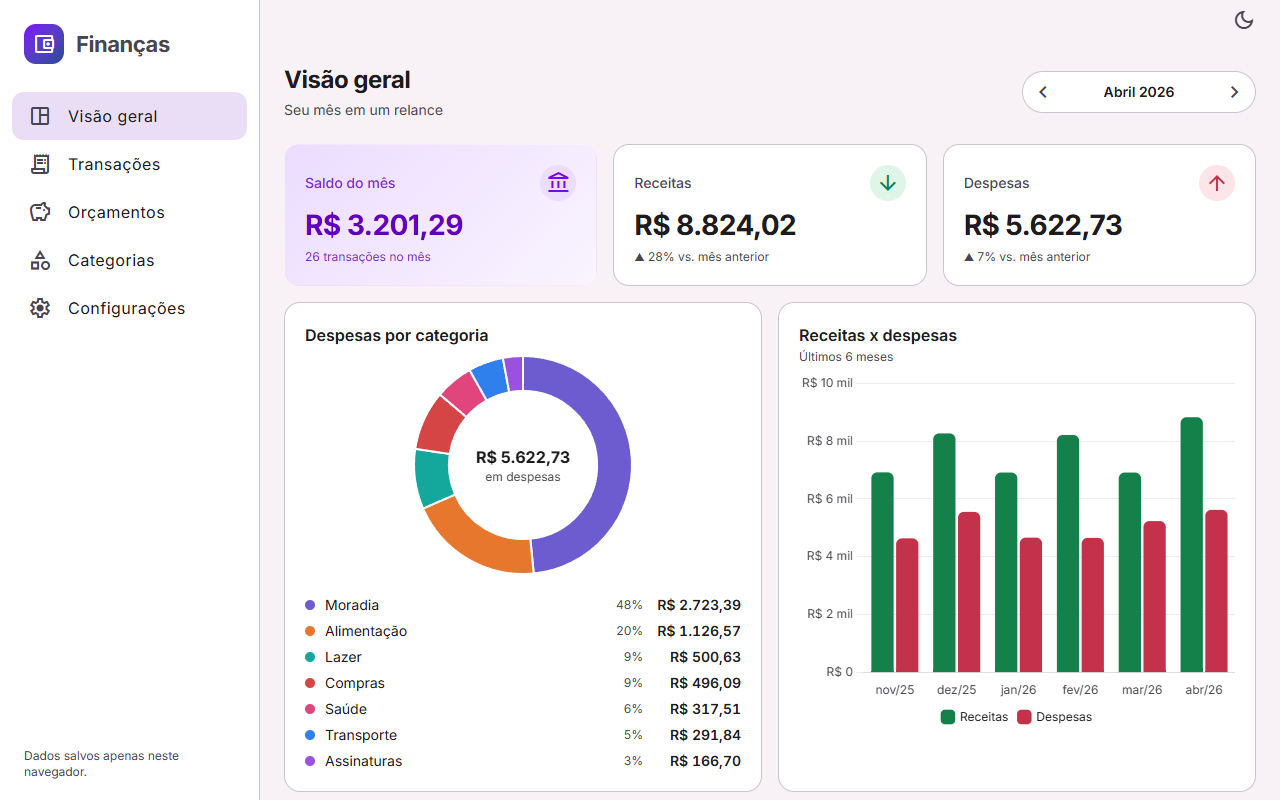
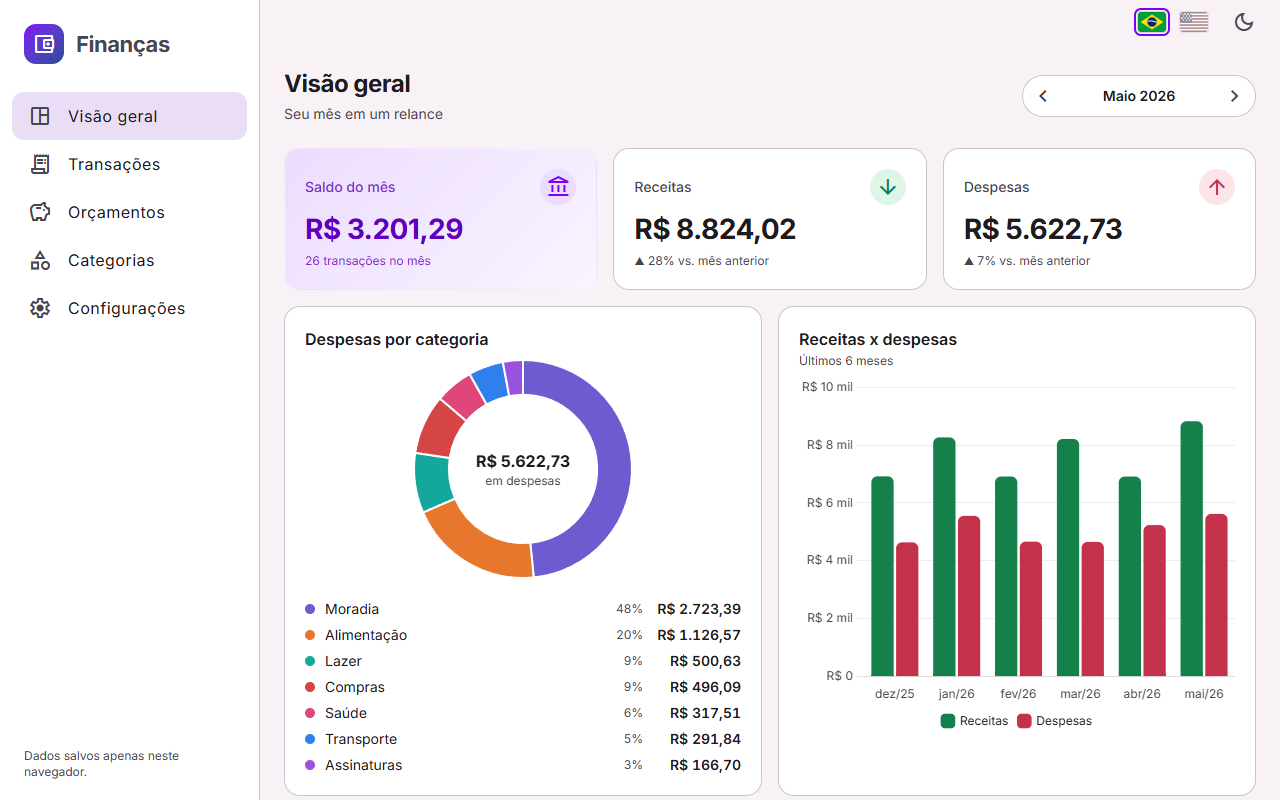
docs: document internationalization and add an English README

diff --git a/src/app/shared/components/language-switcher/language-switcher.component.ts b/src/app/shared/components/language-switcher/language-switcher.component.ts
@@ -13,11 +13,7 @@ import { FlagIconComponent } from '../flag-icon/flag-icon.component';
   selector: 'app-language-switcher',
   imports: [FlagIconComponent, MatTooltipModule, TranslocoPipe],
   template: `
-    <div
-      class="group"
-      role="radiogroup"
-      [attr.aria-label]="'language.group' | transloco"
-    >
+    <div class="group" role="radiogroup" [attr.aria-label]="'language.group' | transloco">
       @for (language of languages.languages; track language.code) {
         @let selected = language.code === languages.lang();
         <button

diff --git a/README.md b/README.md
@@ -1,5 +1,7 @@
 # Finanças · Controle financeiro pessoal
 
+🇺🇸 [Read this in English](README.en.md)
+
 Aplicação de finanças pessoais feita em **Angular 20** com **Angular Material**, **Signals** e **Chart.js**. Registre receitas e despesas, organize tudo em categorias com cores e ícones, defina orçamentos mensais por categoria e acompanhe o mês em um painel com saldo, alertas de orçamento e gráficos. Os dados ficam no `localStorage` do navegador, atrás de uma camada de repositório que pode ser trocada por uma API sem mexer nas telas. Na primeira visita, o app gera dados de demonstração para você explorar.
 
 **Demo:** https://brunoicosta.github.io/angular-finance-tracker/
@@ -16,7 +18,8 @@ Aplicação de finanças pessoais feita em **Angular 20** com **Angular Material
 - **Gráficos**: despesas por categoria (rosca, com legenda acessível) e receitas x despesas nos últimos 6 meses (barras). Os dois acompanham o tema claro/escuro e carregam sob demanda com `@defer`.
 - **CSV**: exporta todas as transações (`;`, vírgula decimal, UTF-8 com BOM, abre direto no Excel) e importa arquivos próprios ou de outras ferramentas (`;` ou `,`, datas ISO ou brasileiras, valores negativos como despesa, cabeçalhos em português ou inglês). Linhas inválidas são listadas com o número da linha, e categorias desconhecidas são criadas.
 - **Dados de demonstração** na primeira visita, mais as ações **Limpar dados** e **Restaurar demonstração**.
-- **Formato brasileiro**: moeda BRL e datas em pt-BR via `registerLocaleData`, `LOCALE_ID` e um `DateAdapter` próprio.
+- **Português e inglês**: toda a interface (textos, `aria-label`, títulos das páginas, mensagens de validação, toasts, paginador) traduzida com Transloco. O idioma troca na hora pelas bandeiras no topo ou nas configurações e fica salvo.
+- **Formatação pelo idioma**: valores sempre em BRL, mas formatados conforme o idioma (`R$ 1.234,56` / `R$1,234.56`), assim como datas, porcentagens, eixos dos gráficos e o datepicker (`dd/mm/aaaa` ou `mm/dd/yyyy`).
 - **Tema claro/escuro** (segue o sistema até você escolher), layout responsivo com menu lateral recolhível e tabela compacta no celular.
 - **Acessibilidade**: link para pular ao conteúdo, landmarks, rótulos ARIA, foco visível, `aria-live` nos resultados e estados de carregando, vazio e erro.
 
@@ -26,6 +29,7 @@ Aplicação de finanças pessoais feita em **Angular 20** com **Angular Material
 | ------------ | ------------------------------------------------------------------ |
 | Framework    | Angular 20.3 (standalone, zoneless, Signals, controle de fluxo novo) |
 | UI           | Angular Material / CDK 20.2 (tema Material 3)                     |
+| i18n         | @jsverse/transloco 8.2 (escopos lazy por feature)                  |
 | Gráficos     | Chart.js 4.5 + ng2-charts 9                                        |
 | Formulários  | Reactive Forms tipados                                             |
 | Linguagem    | TypeScript 5.9 (`strict`)                                          |
@@ -39,6 +43,7 @@ Aplicação de finanças pessoais feita em **Angular 20** com **Angular Material
 src/app/
 ├── app.component.ts · app.config.ts · app.routes.ts
 ├── core/                     singletons usados pelo app todo
+│   ├── i18n/                 Transloco, LanguageService, loader HTTP, títulos traduzidos
 │   ├── layout/               shell (menu, barra superior, estados de carregando/erro)
 │   ├── models/               Transaction, Category, Budget, FinanceData (*.model.ts)
 │   ├── domain/               cálculos puros: resumo do mês, totais, orçamentos
@@ -63,6 +68,31 @@ src/app/
 - **Regras puras e testáveis.** Os cálculos financeiros, a consulta da tabela (filtrar, ordenar e paginar) e o CSV são funções puras, separadas dos componentes.
 - **Zoneless + OnPush.** `provideZonelessChangeDetection()` e `ChangeDetectionStrategy.OnPush` em todos os componentes, garantidos por regra do ESLint.
 - **Convenções.** Arquivos com sufixo de tipo (`*.component.ts`, `*.service.ts`, `*.routes.ts`, `*.model.ts`, `*.store.ts`), configurados nos `schematics` do `angular.json`. Tudo usa `input()`, `output()`, `model()`, `inject()` e bindings no objeto `host`.
+
+
+## Internacionalização
+
+O app está em **português (pt-BR, padrão)** e **inglês (en)**, com [Transloco](https://jsverse.gitbook.io/transloco).
+
+**Como funciona**
+
+- **Arquivos de tradução** em `public/i18n/`: `pt-BR.json` e `en.json` têm os textos globais (menu, shell, botões comuns, paginador, navegador de meses). Cada feature tem um **escopo** próprio em `public/i18n/<feature>/<idioma>.json` (`dashboard`, `transactions`, `budgets`, `categories`, `settings`).
+- **Escopos lazy.** Cada `*.routes.ts` declara `provideTranslocoScope('<feature>')`, então as traduções de uma feature só são baixadas quando a rota abre, junto com o chunk dela. Os diálogos, que o `MatDialog` cria fora do injector da rota, declaram o próprio escopo.
+- **Idioma inicial**: escolha salva no `localStorage`, depois o idioma do navegador (`pt*` vira pt-BR e `en*` vira en), e por último pt-BR. O `LanguageService` (signals) mantém o Transloco, o `<html lang>` e o `localStorage` sincronizados e expõe o `locale` ativo (`pt-BR` ou `en-US`).
+- **Seletor de idioma**: um `radiogroup` com as bandeiras do Brasil e dos EUA em SVG inline (emoji de bandeira não funciona no Windows). Cada opção tem nome acessível no próprio idioma, atributo `lang`, tooltip e navegação por setas. Aparece no topo e em Configurações.
+- **Formatação.** Os pipes `brl`, `localDate` e `localPercent` usam o locale ativo e marcam a view para checagem quando o idioma muda, por isso funcionam com OnPush. A moeda continua BRL, porque o domínio é brasileiro. Os dados locais de `pt` são registrados com `registerLocaleData`; os de `en` já vêm com o Angular.
+- **Títulos das páginas**: o `title` de cada rota é uma chave, e um `TitleStrategy` próprio traduz e reaplica o título quando o idioma muda. O `MatPaginatorIntl` também é traduzido.
+- **Texto no TypeScript**: valores calculados retornam `{ key, params }` (veja `shared/i18n/translated-text.ts`) e o template aplica `| transloco`. Rótulos de gráfico usam `translateSignal`.
+- **Conteúdo gerado** (dados de demonstração e categorias padrão) é criado no idioma ativo no momento em que é gerado. Depois disso vira dado do usuário e não muda com o idioma, como qualquer texto digitado.
+- **CSV no idioma ativo**: em pt-BR o arquivo sai com cabeçalhos em português, `;` e vírgula decimal; em inglês, com `date,description,amount,...`, `,` e ponto decimal. A importação aceita os dois formatos.
+
+**Como adicionar um idioma** (por exemplo, `es`)
+
+1. Copie `public/i18n/en.json` e cada `public/i18n/<feature>/en.json` para `es.json` e traduza.
+2. Em `src/app/core/i18n/language.ts`, inclua `'es'` em `AVAILABLE_LANGS` e adicione as entradas em `LANG_LOCALES` (`'es-ES'`) e `LANG_LABELS` (`'Español'`). Ajuste `detectLanguage` se quiser detectar `es*`.
+3. Registre os dados de locale em `src/app/core/i18n/register-locales.ts` (`registerLocaleData(localeEs, 'es-ES')`).
+4. Adicione a bandeira em `shared/components/flag-icon/flag-icon.component.ts` e, se quiser, o formato de CSV em `CSV_FORMATS`.
+5. Inclua os arquivos novos em `src/testing/i18n.testing.ts` para os testes.
 
 ## Como rodar
 
@@ -98,6 +128,7 @@ Para gerar o build do GitHub Pages: `npx ng build --base-href /angular-finance-t
 - Metas de economia e projeção de saldo.
 - Importação de OFX e mapeamento de colunas do CSV.
 - Testes end-to-end com Playwright.
+- Mais idiomas (espanhol) e formatos de data/CSV configuráveis pelo usuário.
 
 ## Autor
 

diff --git a/README.en.md b/README.en.md
@@ -1,0 +1,46 @@
+# Finanças · Personal finance tracker
+
+🇧🇷 [Leia em português](README.md) (full documentation)
+
+A personal finance app built with **Angular 20**, **Angular Material**, **Signals** and **Chart.js**. Record income and expenses, organize them in categories with colors and icons, set monthly budgets per category and follow the month on a dashboard with balance, budget alerts and charts. Data is kept in the browser's `localStorage`, behind a repository abstraction that can be swapped for an API without touching the screens. The first visit seeds demo data so you can explore right away.
+
+**Demo:** https://brunoicosta.github.io/angular-finance-tracker/
+
+![Dashboard with the month balance, expenses by category and income vs expenses](docs/screenshot.png)
+
+## Features
+
+- Month overview with a month navigator: balance, income, expenses, comparison with the previous month and the latest transactions.
+- Transactions CRUD in a Material dialog with a typed reactive form and validation, plus undo after deleting.
+- Transactions table with text search (ignores accents), type and category filters, sorting, pagination and totals.
+- Categories with colors and icons; monthly budgets per category with progress bars, a warning at 80% and over-budget alerts.
+- Charts: expenses by category (doughnut) and income vs expenses over the last 6 months (bars), loaded with `@defer`.
+- CSV export and import (Portuguese or English format), demo data, "clear data" and "restore demo" actions.
+- **Portuguese (default) and English**, switched live with the flag buttons in the header; amounts are always BRL, formatted for the active language.
+- Light/dark theme, responsive layout and accessibility work (skip link, landmarks, ARIA labels, visible focus).
+
+## Stack
+
+Angular 20.3 (standalone, zoneless, Signals, new control flow) · Angular Material/CDK 20.2 (Material 3) · @jsverse/transloco 8.2 · Chart.js 4.5 + ng2-charts 9 · TypeScript 5.9 (strict) · Karma + Jasmine · ESLint (angular-eslint) + Prettier · GitHub Actions + GitHub Pages.
+
+## Architecture highlights
+
+- **Lazy everything.** `app.routes.ts` only holds the shell and one `loadChildren` per feature (`dashboard`, `transactions`, `budgets`, `categories`, `settings`), and each feature loads its page with `loadComponent`. Chart.js is registered in the dashboard route providers, so it ships with that chunk.
+- **Signals store.** `FinanceStore` keeps one `signal<FinanceData>`. Everything else is `computed`, and an `effect` persists every change through an async `FinanceRepository` (localStorage today, HTTP tomorrow).
+- **Money in cents, dates as `YYYY-MM-DD`** to avoid floating point and time zone bugs.
+- **Pure, tested domain logic**: month summaries, budget progress, table queries and CSV parsing.
+- **i18n with lazy Transloco scopes**: one translation scope per feature, loaded with its route. There are locale-aware pipes (`brl`, `localDate`, `localPercent`), translated route titles and a translated paginator. See the "Internacionalização" section of the Portuguese README for details and for how to add a language.
+
+## Running locally
+
+```bash
+npm install
+npm start          # http://localhost:4200
+npm run test:ci    # unit tests in Chrome Headless
+npm run lint
+npm run build
+```
+
+## Author
+
+**Bruno Vinicius Isaac Costa** · https://github.com/BrunoICosta · [MIT license](LICENSE)
